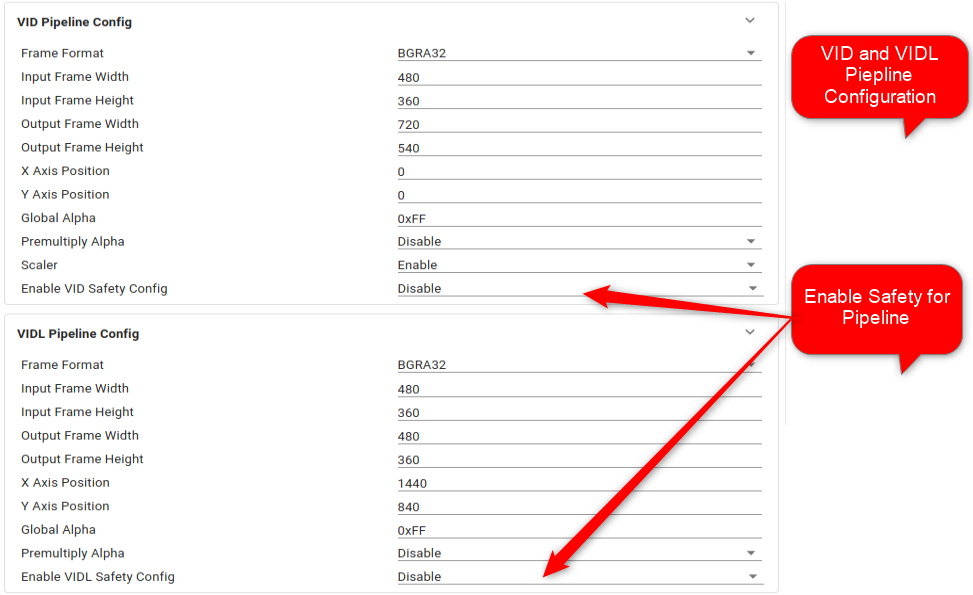
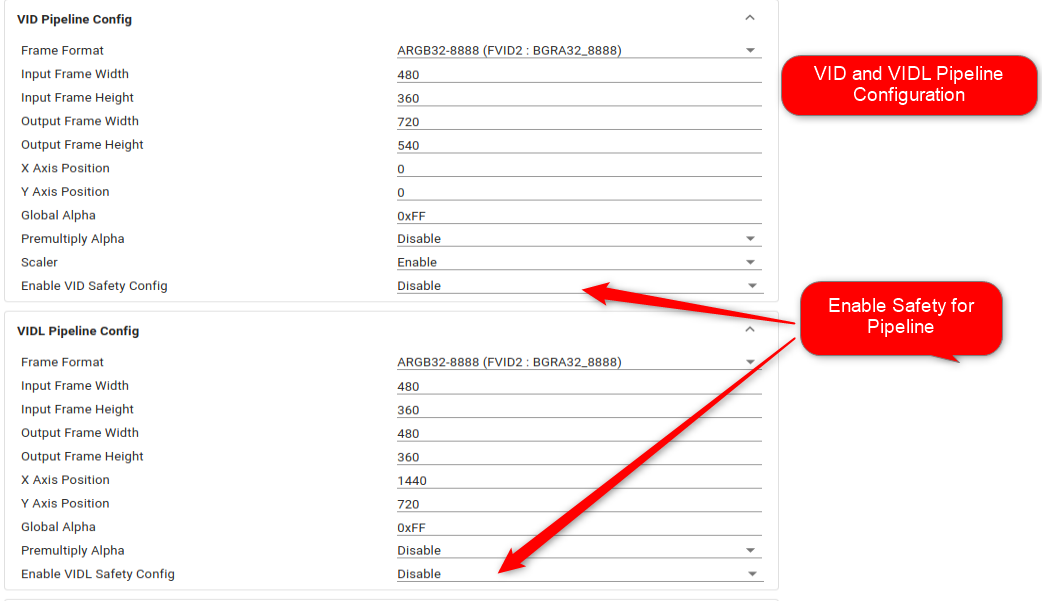
am62px: docs: Update driver documentation for DSS and Panel.
- Add documentation for Panel driver and SII9022A bridge.
- Add documentation for multiple frame formats support in DSS.
- Add documentation for DPI configuration in DSS.

Fixes: SITSW-5037

diff --git a/docs_src/docs/api_guide/doxy_samples/board/Panel_sample.c b/docs_src/docs/api_guide/doxy_samples/board/Panel_sample.c
@@ -1,0 +1,101 @@
+//! [include]
+#include <board/panel/panel_i2c.h>
+
+BridgeSii9022a_Object gBridgeSii9022aObj =
+{
+    .modeInfo = {
+        .standard = FVID2_STD_1080P_60,
+        .modeCode = 16,
+        .pixClk = 14850,
+        .vFreq = 60,
+        .pixels = 2200,
+        .lines = 1125,
+        .embSyncPrms = {
+            .hBitToHSync = 88,
+            .field2Offset = 0,
+            .hWidth = 44,
+            .vBitToVSync = 4,
+            .vWidth = 5.
+        },
+        .extSyncPrms = {
+            .deDelay = 192,
+            .deTop = 41,
+            .deCnt = 1920,
+            .deLine = 1080,
+        }
+    }
+};
+
+/* PANEL Driver handles - opened during Board_panelOpen() */
+Panel_Handle gPanelHandle[CONFIG_PANEL_NUM_INSTANCES];
+
+Panel_Params gPanelParams[CONFIG_PANEL_NUM_INSTANCES] =
+{
+    {
+        .bridgeParams = {
+            .deviceI2cInstId = HDMI_I2C_CONFIG,
+            .deviceI2cAddr = 0x3B,
+            .inpClk = 0U,
+            .hotPlugGpioIntrLine = 0U,
+            .clkEdge = FALSE,
+            .outputFormat = BRIDGE_SII9022A_HDMI_RGB,
+        },
+        .vidOutParams = {
+            .standard = FVID2_STD_1080P_60,
+            .videoDataFormat = FVID2_DF_RGB24_888,
+            .videoIfMode = FVID2_VIFM_SCH_DS_AVID_VSYNC,
+            .videoIfWidth = FVID2_VIFW_24BIT,
+        }
+    },
+};
+
+Panel_PinCtrl gPinCtrlConfig[CONFIG_PANEL_NUM_INSTANCES] =
+{
+    {
+        .pinCtrlI2cInstance = HDMI_I2C_CONFIG,
+        .pinCtrlI2cAddr = 0x23,
+        .numPins = 1,
+        .pinConf = {
+           {
+                .pinIoNum = 21,
+                .pinType  = TCA6424_MODE_OUTPUT,
+                .pinVal   = TCA6424_OUT_STATE_HIGH,
+           }
+        },
+    },
+};
+
+/* PANEL Config */
+Panel_Config gPanelConfig[CONFIG_PANEL_NUM_INSTANCES] =
+{
+    {
+        .panelType = CONFIG_PANEL_TYPE_I2C,
+        .fxns = &gPanelBridgeSii9022aFxns,
+        .object = (void *)&gBridgeSii9022aObj,
+        .pinConfig = &gPinCtrlConfig[0],
+
+    },
+};
+
+uint32_t gPanelConfigNum = CONFIG_PANEL_NUM_INSTANCES;
+
+//! [include]
+
+void open(void)
+{
+//! [open]
+    gPanelHandle[CONFIG_PANEL0] = NULL;
+    gPanelHandle[CONFIG_PANEL0] = Panel_open(CONFIG_PANEL0, &gPanelParams[CONFIG_PANEL0]);
+    if (!gPanelHandle[CONFIG_PANEL0])
+    {
+        DebugP_assert(FALSE);
+    }
+//! [open]
+}
+
+void close(void)
+{
+//! [close]
+    Panel_close(gPanelHandle[CONFIG_PANEL0]);
+//! [close]
+}

diff --git a/source/board/panel.h b/source/board/panel.h
@@ -30,6 +30,17 @@
  *  OF THIS SOFTWARE, EVEN IF ADVISED OF THE POSSIBILITY OF SUCH DAMAGE.
  */
 
+/**
+ *  \defgroup BOARD_PANEL_MODULE APIs for PANEL
+ *  \ingroup BOARD_MODULE
+ *
+ *  This module contains APIs to program and use the Panel module on the board
+ *  like HDMI Panel connected over a bridge.
+ *  See \ref BOARD_PANEL_PAGE for more details.
+ *
+ *  @{
+ */
+
 #ifndef PANEL_H_
 #define PANEL_H_
 
@@ -55,28 +66,18 @@ extern "C"
 #define PANEL_INVALID_VALUE (0xFFFFFFFFU)
 
 /**
- * \brief Panel type supported
+ * \brief Panel type supported.
+ *  @{
  */
 #define CONFIG_PANEL_TYPE_I2C                       (0x00U)
 #define CONFIG_PANEL_TYPE_DSI                       (0x01U)
 #define CONFIG_PANEL_TYPE_INVALID                   (0xFFU)
+/** @} */
 
 /**
  * \brief Max number pins configured for panel pin control.
  */
 #define PANEL_MAX_NUM_PINS_CTRL                     (0xAU)
-
-/**
- *  \defgroup BOARD_PANEL_MODULE APIs for PANEL
- *  \ingroup BOARD_MODULE
- *
- *  This module contains APIs to program and use the Panel module on the board
- *  like HDMI Panel connected over a bridge.
- *  See \ref BOARD_PANEL_PAGE for more details.
- *
- *  @{
- */
-
 
 /**
  * \brief Handle to the FLash driver returned by Panel_open()
@@ -162,6 +163,9 @@ typedef int32_t (*Panel_ResetFxn)(Panel_Config *config, Panel_Params *params);
 /*                         Structure Declarations                             */
 /* ========================================================================== */
 
+/**
+ *  \brief Bridge configuration parameters.
+ */
 typedef struct
 {
     uint32_t deviceI2cInstId;
@@ -171,7 +175,7 @@ typedef struct
     uint32_t inpClk;
     /**< input clock. */
     uint32_t hotPlugGpioIntrLine;
-    /**< Hot plug GPIO interrupt line no - if supported by encoder. */
+    /**< Hot plug GPIO interrupt line no - if supported by bridge. */
     uint32_t clkEdge;
     /**< Specifies the clock edge to be used to latch data on.
      * FALSE spacifies to latch on falling edge, raising edge otherwise.
@@ -180,7 +184,7 @@ typedef struct
 } Panel_BridgeParams;
 
 /**
- *  \brief Configuration paramters for encoder.
+ *  \brief Configuration paramters for bridge encoder.
  */
 typedef struct
 {

diff --git a/docs_src/docs/api_guide/components/drivers/dss.md b/docs_src/docs/api_guide/components/drivers/dss.md
@@ -25,15 +25,16 @@ connected to DISPC Video Port 1 (VP1) output.
 ## Features Supported
 
 - Support for Video Pipleline configuration for VID and VIDL.
-- Support configuration for Video port configuration for VP1.
+- Support configuration for Video port configuration for VP1 and VP2.
 - Support configuration for single link and dual link OLDI panel on VP1.
-- Support for ARGB8888, BGRA8888, RGBA8888, RGB24 and BGR frame formats for
-video pipeline input.
+- Support for DPI configuration for VP2.
+- Support for RGB 16-bit, RGB 32-bit, RGB 64-bit, RGB 24-bit and YUV frame
+formats for video pipeline input.
 - Support for video port timing parameters configuration.
-- Support configuration display plane zorder for Overlay manager OVR1.
+- Support configuration display plane zorder for Overlay manager OVR1 and OVR2.
 - Support for scaling on VID video pipeline.
-- Support for background color programming for Overlay manager OVR1.
-- Support for colorbar test pattern generation from OVR1.
+- Support for background color programming for Overlay manager OVR1 and OVR2.
+- Support for colorbar test pattern generation from OVR1 and OVR2.
 - Alpha blending support: embedded pixel alpha (ARGB and RGBA), global pixel,
 combination of global pixel and pixel alpha.
 - Support for display sharing with HLOS with VIDL pipeline, OVR1 and VP1 in
@@ -81,13 +82,11 @@ used to perform data correctness check and/or freeze frame detection.
 
 ## Features NOT Supported
 
-- Configuration for Video port VP2.
-- Configuration for Overlay manager OVR2.
-- Configuration for DPI to HDMI output on VP2.
-- Support for YUV frame formats.
-- Programmable Brightness/Contrast/Hue/Saturation using the CSC block
 - Programmable VC1 range mapping
 - Luma Key generation.
+- Gamma correction
+- Bitmap frame input format.
+- Color space conversion at video port.
 
 ## API
 

diff --git a/docs_src/docs/api_guide/components/board/panel.md b/docs_src/docs/api_guide/components/board/panel.md
@@ -1,0 +1,54 @@
+# PANEL {#BOARD_PANEL_PAGE}
+
+[TOC]
+
+The Panel driver provides API to control I2C based display bridge driver
+present in the board. The display bridge can be a DPI/DSI based bridge that
+can convert DPI/DSI signals to HDMI output or any other output format.
+
+\cond SOC_AM62PX
+The AM62P-sk board has a SII9022A bridge (Lattice semiconductor),
+I2C based DPI to HDMI output bridge, that takes DPI output from SoC and converts
+them to HDMI signals. The panel driver allows configuration over sysconfig
+and integrates a I2C based driver for SII9022A bridge.
+\endcond
+
+## Features Supported
+
+- Configurable I2C address for bridge.
+- Configurable I2C address for specific GPIO pin control for bridge.
+\cond SOC_AM62PX
+- Video timing parameters configuration for SII9022A bridge.
+- Configuration for output resolution for SII9022A bridge.
+\endcond
+
+## SysConfig Features
+
+@VAR_SYSCFG_USAGE_NOTE
+
+- Option to specify I2C address for the bridge and bridge pin control.
+
+\image html docs_src/docs/api_guide/images/board/panel_bridge_i2c_control.png "Panel I2C Configuration"
+
+- Configuration for SII9022A bridge.
+
+\image html docs_src/docs/api_guide/images/board/panel_SII9022A_bridge.png "SII9022A bridge Configuration"
+
+## Features NOT Supported
+
+- DSI bridge.
+
+## Example Usage
+
+Include the below file to access the APIs
+\snippet Panel_sample.c include
+
+Instance Open Example
+\snippet Panel_sample.c open
+
+Instance Close Example
+\snippet Panel_sample.c close
+
+## API
+
+\ref BOARD_PANEL_MODULE

diff --git a/docs_src/docs/api_guide/examples/drivers/dss_display_test.md b/docs_src/docs/api_guide/examples/drivers/dss_display_test.md
@@ -18,19 +18,18 @@ driver sysconfig options shown below.
 
 
 The example generates test pattern for both pipelines based on the frame format
-selected. The supported frame formats are RGB24, BGR24, ARGB8888, BGRA8888 and
-RGBA8888 formats.
+selected. The supported frame formats are RGB 16-bit, RGB 32-bit, RGB 64-bit,
+RGB 24-bit and YUV formats.
 
 The example configures Zorder for overlay manager where VID and VIDL pipelines
 have Zorder 1 and 2 respectively. The Zorder can be changed using sysconfig
 option. The example configures scaling by default for VID pipeline. The VIDL
 pipeline does not support scaling for input frames.
 
-The example configures OLDI LVDS panel for Video Port 1. Please refer
-<a href="https://www.ti.com/tool/SK-LCD1">**SK-LCD1**</a> for panel details. The
-Video port timinng parameters are configured with respect to
-<a href="https://www.ti.com/tool/SK-LCD1">**SK-LCD1**</a>. Timing parameters can
-be configured using sysconfig option.
+The example configures DPI Panel for Video Port 2. It sets the video timing
+parameters for DPI output interface. The example also adds a Panel driver that
+configures a Sii9022a bridge driver for DPI to HDMI output on AM62P-SK
+board.
 
 The example integrates bootloading funtionality with SBL on OSPI bootmedia. It
 also integrates Device manager functionality. The SBL stage 2 thread boots all

diff --git a/docs_src/docs/api_guide/examples/drivers/dss_display_share.md b/docs_src/docs/api_guide/examples/drivers/dss_display_share.md
@@ -37,6 +37,17 @@ Video port timinng parameters are configured with respect to
 <a href="https://www.ti.com/tool/SK-LCD1">**SK-LCD1**</a>. Timing parameters can
 be configured using sysconfig option.
 
+The example implements a firewall function to configure firewall for DSS
+register regions used by the driver to ensure display-sharing functionality.
+This provides access for read, write, cache, and debug DSS register regions for
+the core running the DSS driver in RTOS context and provides only read access
+to the application core running HLOS like Linux. The example also configures a
+firewall for frame buffer memory region used in RTOS context for display
+sharing. This provides read, write, cache, and debug access to the DSS
+peripheral and core running the DSS driver in the RTOS context. This blocks
+access from all other entities in SoC from accessing the frame buffer memory
+region.
+
 \note To support display sharing on Linux, there exists a device tree overlay which
 should be applied to kernel device tree to enable DSS sharing on Linux.
 The overlays are **k3-am62p5-sk-microtips-mf101hie-panel.dtbo** and

diff --git a/docs_src/docs/api_guide/components/board/board.md b/docs_src/docs/api_guide/components/board/board.md
@@ -15,5 +15,6 @@ It consists of below sub-modules
 \endcond
 - \subpage BOARD_LED_PAGE
 \cond SOC_AM62PX
+- \subpage BOARD_PANEL_PAGE
 - \subpage BOARD_PMIC_PAGE
 \endcond
